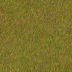
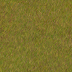
adj

diff --git a/public/terrains.css b/public/terrains.css
@@ -60,15 +60,15 @@
 }
 .terP4 {
     background-color: #a7ac77;
-    background-image: url(/static/img/wtiles/plaine.png);
+    background-image: url(/static/img/wtiles/plainesable.png);
 }
 .terP5 {
     background-color: #a7ac77;
-    background-image: url(/static/img/wtiles/plaine2.png);
+    background-image: url(/static/img/wtiles/plainesable2.png);
 }
 .terP6 {
     background-color: #a7ac77;
-    background-image: url(/static/img/wtiles/plaine3.png);
+    background-image: url(/static/img/wtiles/plainearbre2.png);
 }
 .terG1 {
     background-color: #9bb989;
@@ -108,15 +108,15 @@
 }
 .terB4 {
     background-color: #597d43;
-    background-image: url(/static/img/wtiles/maquis.png);
+    background-image: url(/static/img/wtiles/mixvertclair.png);
 }
 .terB5 {
     background-color: #597d43;
-    background-image: url(/static/img/wtiles/maquis2.png);
+    background-image: url(/static/img/wtiles/mixvertclair2.png);
 }
 .terB6 {
     background-color: #597d43;
-    background-image: url(/static/img/wtiles/maquis3.png);
+    background-image: url(/static/img/wtiles/mixvertclair3.png);
 }
 .terF1 {
     background-color: #22460c;
@@ -156,15 +156,15 @@
 }
 .terS4 {
     background-color: #5b848c;
-    background-image: url(/static/img/wtiles/presale.png);
+    background-image: url(/static/img/wtiles/fagnes.png);
 }
 .terS5 {
     background-color: #5b848c;
-    background-image: url(/static/img/wtiles/presale2.png);
+    background-image: url(/static/img/wtiles/fagnes2.png);
 }
 .terS6 {
     background-color: #5b848c;
-    background-image: url(/static/img/wtiles/presale3.png);
+    background-image: url(/static/img/wtiles/fagnes3.png);
 }
 .terW1 {
     background-color: #3697ac;

diff --git a/public/settings.js b/public/settings.js
@@ -16,7 +16,7 @@ if (yOffset == null) {
     yOffsetForced = yOffset;
 }
 let terSeed = 12; // def 12 +grand = +grandes forêts etc...
-let specialSeed = 8; // def 8 +grand = moins de terrains spéciaux
+let specialSeed = 10; // def 10 +grand = moins de terrains spéciaux
 let swampWater = 5; // def 5 chance d'avoir un swamps à la place d'un water (ou l'inverse)
 let mountHills = 9; // def 9 chance d'avoir une montagne à la place d'une hills (ou l'inverse)
 let terrainTypes = [];
